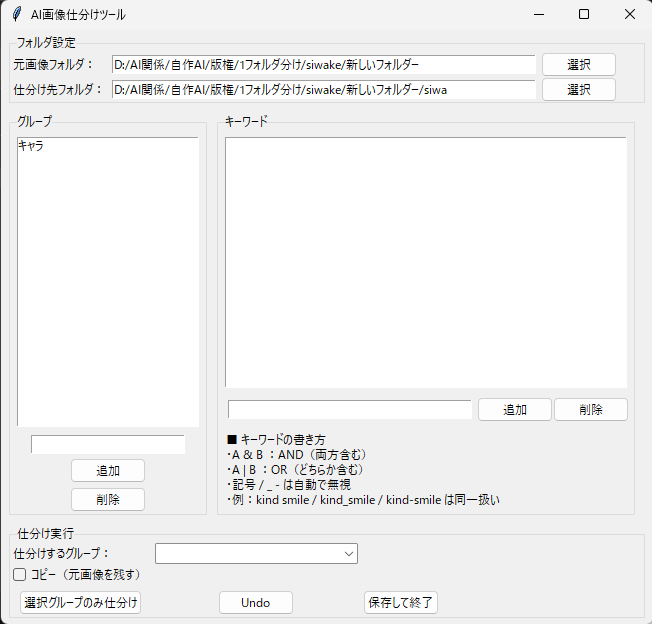
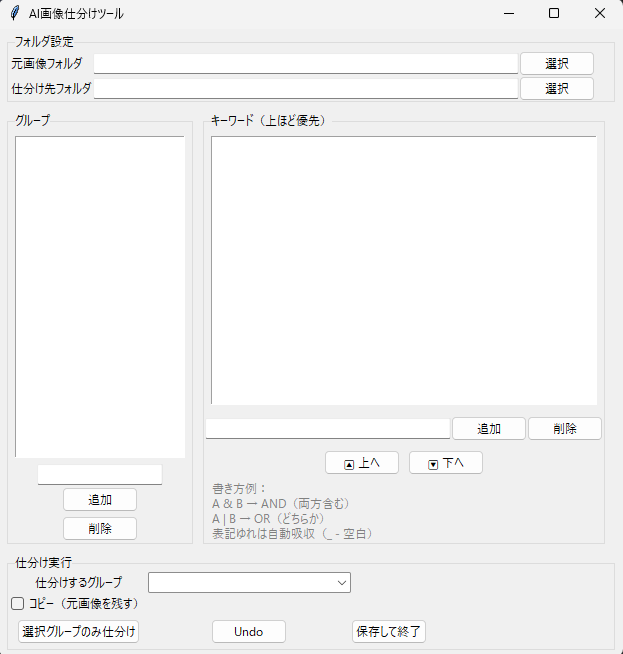
Add files via upload

diff --git a/sort_gui.py b/sort_gui.py
@@ -1,0 +1,308 @@
+# -*- coding: utf-8 -*-
+# AI画像仕分けツール（日本語版）
+# キーワード順＝仕分け優先度（🔼🔽 並び替え対応）
+
+import os
+import json
+import shutil
+import tkinter as tk
+from tkinter import ttk, filedialog, messagebox
+
+try:
+    from PIL import Image
+    PIL_AVAILABLE = True
+except Exception:
+    PIL_AVAILABLE = False
+
+
+# -------------------------------
+# AppData 保存先
+# -------------------------------
+APPDATA_DIR = os.path.join(
+    os.getenv("APPDATA") or os.path.expanduser("~"),
+    "AIImageSorter"
+)
+GROUP_FILE = os.path.join(APPDATA_DIR, "groups.json")
+CONFIG_FILE = os.path.join(APPDATA_DIR, "config.json")
+
+
+# -------------------------------
+# JSON 操作
+# -------------------------------
+def ensure_appdata():
+    os.makedirs(APPDATA_DIR, exist_ok=True)
+
+
+def load_json(path, default):
+    ensure_appdata()
+    if not os.path.exists(path):
+        save_json(path, default)
+        return default
+    try:
+        with open(path, "r", encoding="utf-8") as f:
+            return json.load(f)
+    except Exception:
+        return default
+
+
+def save_json(path, data):
+    ensure_appdata()
+    with open(path, "w", encoding="utf-8") as f:
+        json.dump(data, f, ensure_ascii=False, indent=2)
+
+
+# -------------------------------
+# メタデータ取得
+# -------------------------------
+def read_image_metadata(path):
+    if PIL_AVAILABLE:
+        try:
+            with Image.open(path) as img:
+                p = img.info.get("parameters") or img.info.get("Description")
+                if p:
+                    return str(p)
+        except Exception:
+            pass
+
+    try:
+        with open(path, "rb") as f:
+            return f.read().decode("utf-8", errors="ignore")
+    except Exception:
+        return ""
+
+
+# -------------------------------
+# GUI 本体
+# -------------------------------
+class SortGUI:
+    def __init__(self, root):
+        self.root = root
+        self.root.title("AI画像仕分けツール")
+        self.root.minsize(620, 620)
+
+        self.groups = load_json(GROUP_FILE, {})
+        self.config = load_json(CONFIG_FILE, {"src": "", "dst": ""})
+        self.history = []
+
+        # ---------------- フォルダ設定 ----------------
+        folder = ttk.LabelFrame(root, text="フォルダ設定")
+        folder.pack(fill="x", padx=8, pady=5)
+
+        ttk.Label(folder, text="元画像フォルダ").grid(row=0, column=0, sticky="w")
+        self.src_var = tk.StringVar(value=self.config["src"])
+        ttk.Entry(folder, textvariable=self.src_var, width=70).grid(row=0, column=1)
+        ttk.Button(folder, text="選択", command=self.select_src).grid(row=0, column=2)
+
+        ttk.Label(folder, text="仕分け先フォルダ").grid(row=1, column=0, sticky="w")
+        self.dst_var = tk.StringVar(value=self.config["dst"])
+        ttk.Entry(folder, textvariable=self.dst_var, width=70).grid(row=1, column=1)
+        ttk.Button(folder, text="選択", command=self.select_dst).grid(row=1, column=2)
+
+        # ---------------- メイン ----------------
+        main = ttk.Frame(root)
+        main.pack(fill="both", expand=True, padx=8, pady=5)
+
+        # -------- グループ --------
+        left = ttk.LabelFrame(main, text="グループ")
+        left.grid(row=0, column=0, sticky="ns")
+
+        self.group_list = tk.Listbox(left, width=28, height=20, exportselection=False)
+        self.group_list.pack(padx=5, pady=5)
+        self.group_list.bind("<<ListboxSelect>>", self.on_group_select)
+
+        self.new_group_var = tk.StringVar()
+        ttk.Entry(left, textvariable=self.new_group_var).pack(padx=5)
+        ttk.Button(left, text="追加", command=self.add_group).pack(pady=2)
+        ttk.Button(left, text="削除", command=self.delete_group).pack(pady=2)
+
+        # -------- キーワード --------
+        right = ttk.LabelFrame(main, text="キーワード（上ほど優先）")
+        right.grid(row=0, column=1, sticky="nsew", padx=10)
+        main.columnconfigure(1, weight=1)
+
+        self.keyword_list = tk.Listbox(right, height=16, exportselection=False)
+        self.keyword_list.pack(fill="both", expand=True, padx=5, pady=5)
+
+        kw_ctrl = ttk.Frame(right)
+        kw_ctrl.pack(fill="x", pady=5)
+
+        self.keyword_var = tk.StringVar()
+        ttk.Entry(kw_ctrl, textvariable=self.keyword_var, width=40).grid(row=0, column=0)
+        ttk.Button(kw_ctrl, text="追加", command=self.add_keyword).grid(row=0, column=1)
+        ttk.Button(kw_ctrl, text="削除", command=self.delete_keyword).grid(row=0, column=2)
+
+        # 🔼🔽 並び替えボタン
+        order = ttk.Frame(right)
+        order.pack(pady=4)
+        ttk.Button(order, text="🔼 上へ", command=self.move_keyword_up).grid(row=0, column=0, padx=4)
+        ttk.Button(order, text="🔽 下へ", command=self.move_keyword_down).grid(row=0, column=1, padx=4)
+
+        ttk.Label(
+            right,
+            text="書き方例：\n"
+                 "A & B → AND（両方含む）\n"
+                 "A | B → OR（どちらか）\n"
+                 "表記ゆれは自動吸収（_ - 空白）",
+            foreground="gray"
+        ).pack(anchor="w", padx=5)
+
+        # ---------------- 実行 ----------------
+        run = ttk.LabelFrame(root, text="仕分け実行")
+        run.pack(fill="x", padx=8, pady=5)
+
+        ttk.Label(run, text="仕分けするグループ").grid(row=0, column=0)
+        self.run_group = tk.StringVar()
+        self.run_group_cb = ttk.Combobox(run, textvariable=self.run_group, state="readonly", width=30)
+        self.run_group_cb.grid(row=0, column=1)
+
+        self.copy_var = tk.BooleanVar()
+        ttk.Checkbutton(run, text="コピー（元画像を残す）", variable=self.copy_var).grid(row=1, column=0, sticky="w")
+
+        ttk.Button(run, text="選択グループのみ仕分け", command=self.run_selected).grid(row=2, column=0, pady=5)
+        ttk.Button(run, text="Undo", command=self.undo_last).grid(row=2, column=1)
+        ttk.Button(run, text="保存して終了", command=self.save_and_quit).grid(row=2, column=2)
+
+        self.refresh_group_list()
+
+    # ---------------- 操作 ----------------
+    def select_src(self):
+        p = filedialog.askdirectory()
+        if p:
+            self.src_var.set(p)
+
+    def select_dst(self):
+        p = filedialog.askdirectory()
+        if p:
+            self.dst_var.set(p)
+
+    def refresh_group_list(self):
+        self.group_list.delete(0, tk.END)
+        for g in self.groups:
+            self.group_list.insert(tk.END, g)
+        self.run_group_cb["values"] = list(self.groups.keys())
+
+    def on_group_select(self, _=None):
+        sel = self.group_list.curselection()
+        if not sel:
+            return
+        g = self.group_list.get(sel[0])
+        self.keyword_list.delete(0, tk.END)
+        for kw in self.groups[g]:
+            self.keyword_list.insert(tk.END, kw)
+
+    def add_group(self):
+        g = self.new_group_var.get().strip()
+        if g and g not in self.groups:
+            self.groups[g] = []
+            self.new_group_var.set("")
+            self.refresh_group_list()
+
+    def delete_group(self):
+        sel = self.group_list.curselection()
+        if not sel:
+            return
+        g = self.group_list.get(sel[0])
+        if messagebox.askyesno("確認", f"{g} を削除しますか？"):
+            del self.groups[g]
+            self.refresh_group_list()
+            self.keyword_list.delete(0, tk.END)
+
+    def add_keyword(self):
+        sel = self.group_list.curselection()
+        if not sel:
+            return
+        g = self.group_list.get(sel[0])
+        kw = self.keyword_var.get().strip()
+        if kw:
+            self.groups[g].append(kw)
+            self.keyword_var.set("")
+            self.on_group_select()
+
+    def delete_keyword(self):
+        sg = self.group_list.curselection()
+        sk = self.keyword_list.curselection()
+        if not sg or not sk:
+            return
+        g = self.group_list.get(sg[0])
+        del self.groups[g][sk[0]]
+        self.on_group_select()
+
+    # 🔼🔽 並び替え
+    def move_keyword_up(self):
+        sg = self.group_list.curselection()
+        sk = self.keyword_list.curselection()
+        if not sg or not sk:
+            return
+        g = self.group_list.get(sg[0])
+        i = sk[0]
+        if i == 0:
+            return
+        self.groups[g][i - 1], self.groups[g][i] = self.groups[g][i], self.groups[g][i - 1]
+        self.on_group_select()
+        self.keyword_list.select_set(i - 1)
+
+    def move_keyword_down(self):
+        sg = self.group_list.curselection()
+        sk = self.keyword_list.curselection()
+        if not sg or not sk:
+            return
+        g = self.group_list.get(sg[0])
+        i = sk[0]
+        if i >= len(self.groups[g]) - 1:
+            return
+        self.groups[g][i + 1], self.groups[g][i] = self.groups[g][i], self.groups[g][i + 1]
+        self.on_group_select()
+        self.keyword_list.select_set(i + 1)
+
+    # ---------------- 仕分け ----------------
+    def run_selected(self):
+        g = self.run_group.get()
+        if not g:
+            return
+
+        src = self.src_var.get()
+        dst = self.dst_var.get()
+        if not os.path.isdir(src) or not dst:
+            messagebox.showerror("エラー", "フォルダ設定を確認してください")
+            return
+
+        os.makedirs(dst, exist_ok=True)
+
+        for f in os.listdir(src):
+            if not f.lower().endswith((".png", ".jpg", ".jpeg", ".webp")):
+                continue
+            p = os.path.join(src, f)
+            meta = read_image_metadata(p).lower()
+
+            for kw in self.groups[g]:
+                if kw.lower().replace("_", " ").replace("-", " ") in meta:
+                    target = os.path.join(dst, kw)
+                    os.makedirs(target, exist_ok=True)
+                    dst_path = os.path.join(target, f)
+                    if self.copy_var.get():
+                        shutil.copy2(p, dst_path)
+                    else:
+                        shutil.move(p, dst_path)
+                    break
+
+        messagebox.showinfo("完了", "仕分けが完了しました")
+
+    def undo_last(self):
+        messagebox.showinfo("Undo", "現在は簡易Undoのみ対応")
+
+    def save_and_quit(self):
+        save_json(GROUP_FILE, self.groups)
+        save_json(CONFIG_FILE, {
+            "src": self.src_var.get(),
+            "dst": self.dst_var.get()
+        })
+        self.root.destroy()
+
+
+# -------------------------------
+# 起動
+# -------------------------------
+if __name__ == "__main__":
+    root = tk.Tk()
+    app = SortGUI(root)
+    root.mainloop()
